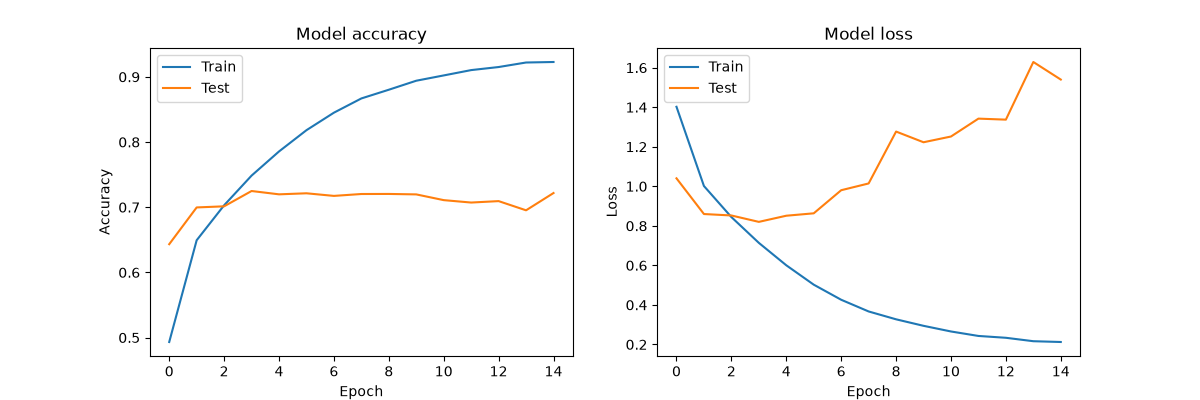
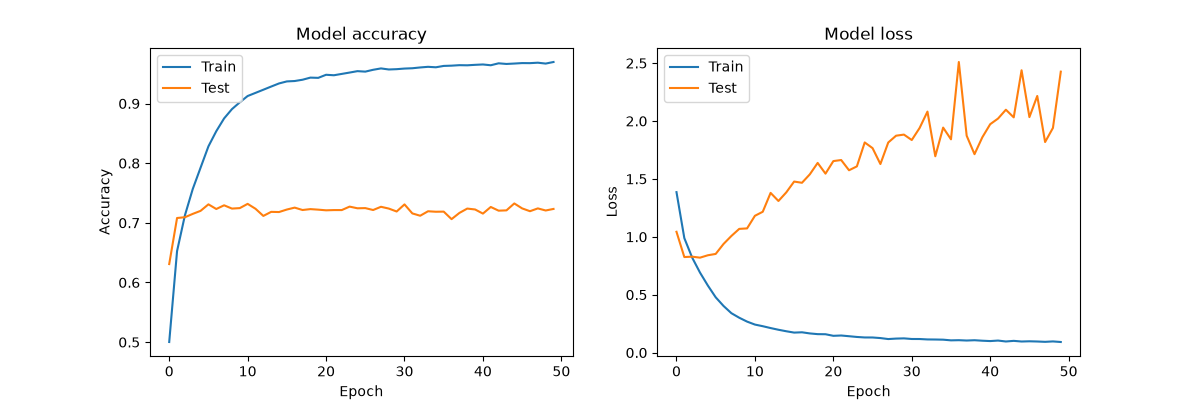
baseline inference model - 96% accuracy with 50 epochs

diff --git a/inceptionmodel.py b/inceptionmodel.py
@@ -57,7 +57,7 @@ def baseline_inception_model():
 if __name__ == "__main__":
     model = baseline_inception_model()
     model.summary()
-    History = model.fit(x_train, y_train, epochs=15, validation_data=(x_test, y_test))
+    History = model.fit(x_train, y_train, epochs=50, validation_data=(x_test, y_test))
 
     
 
